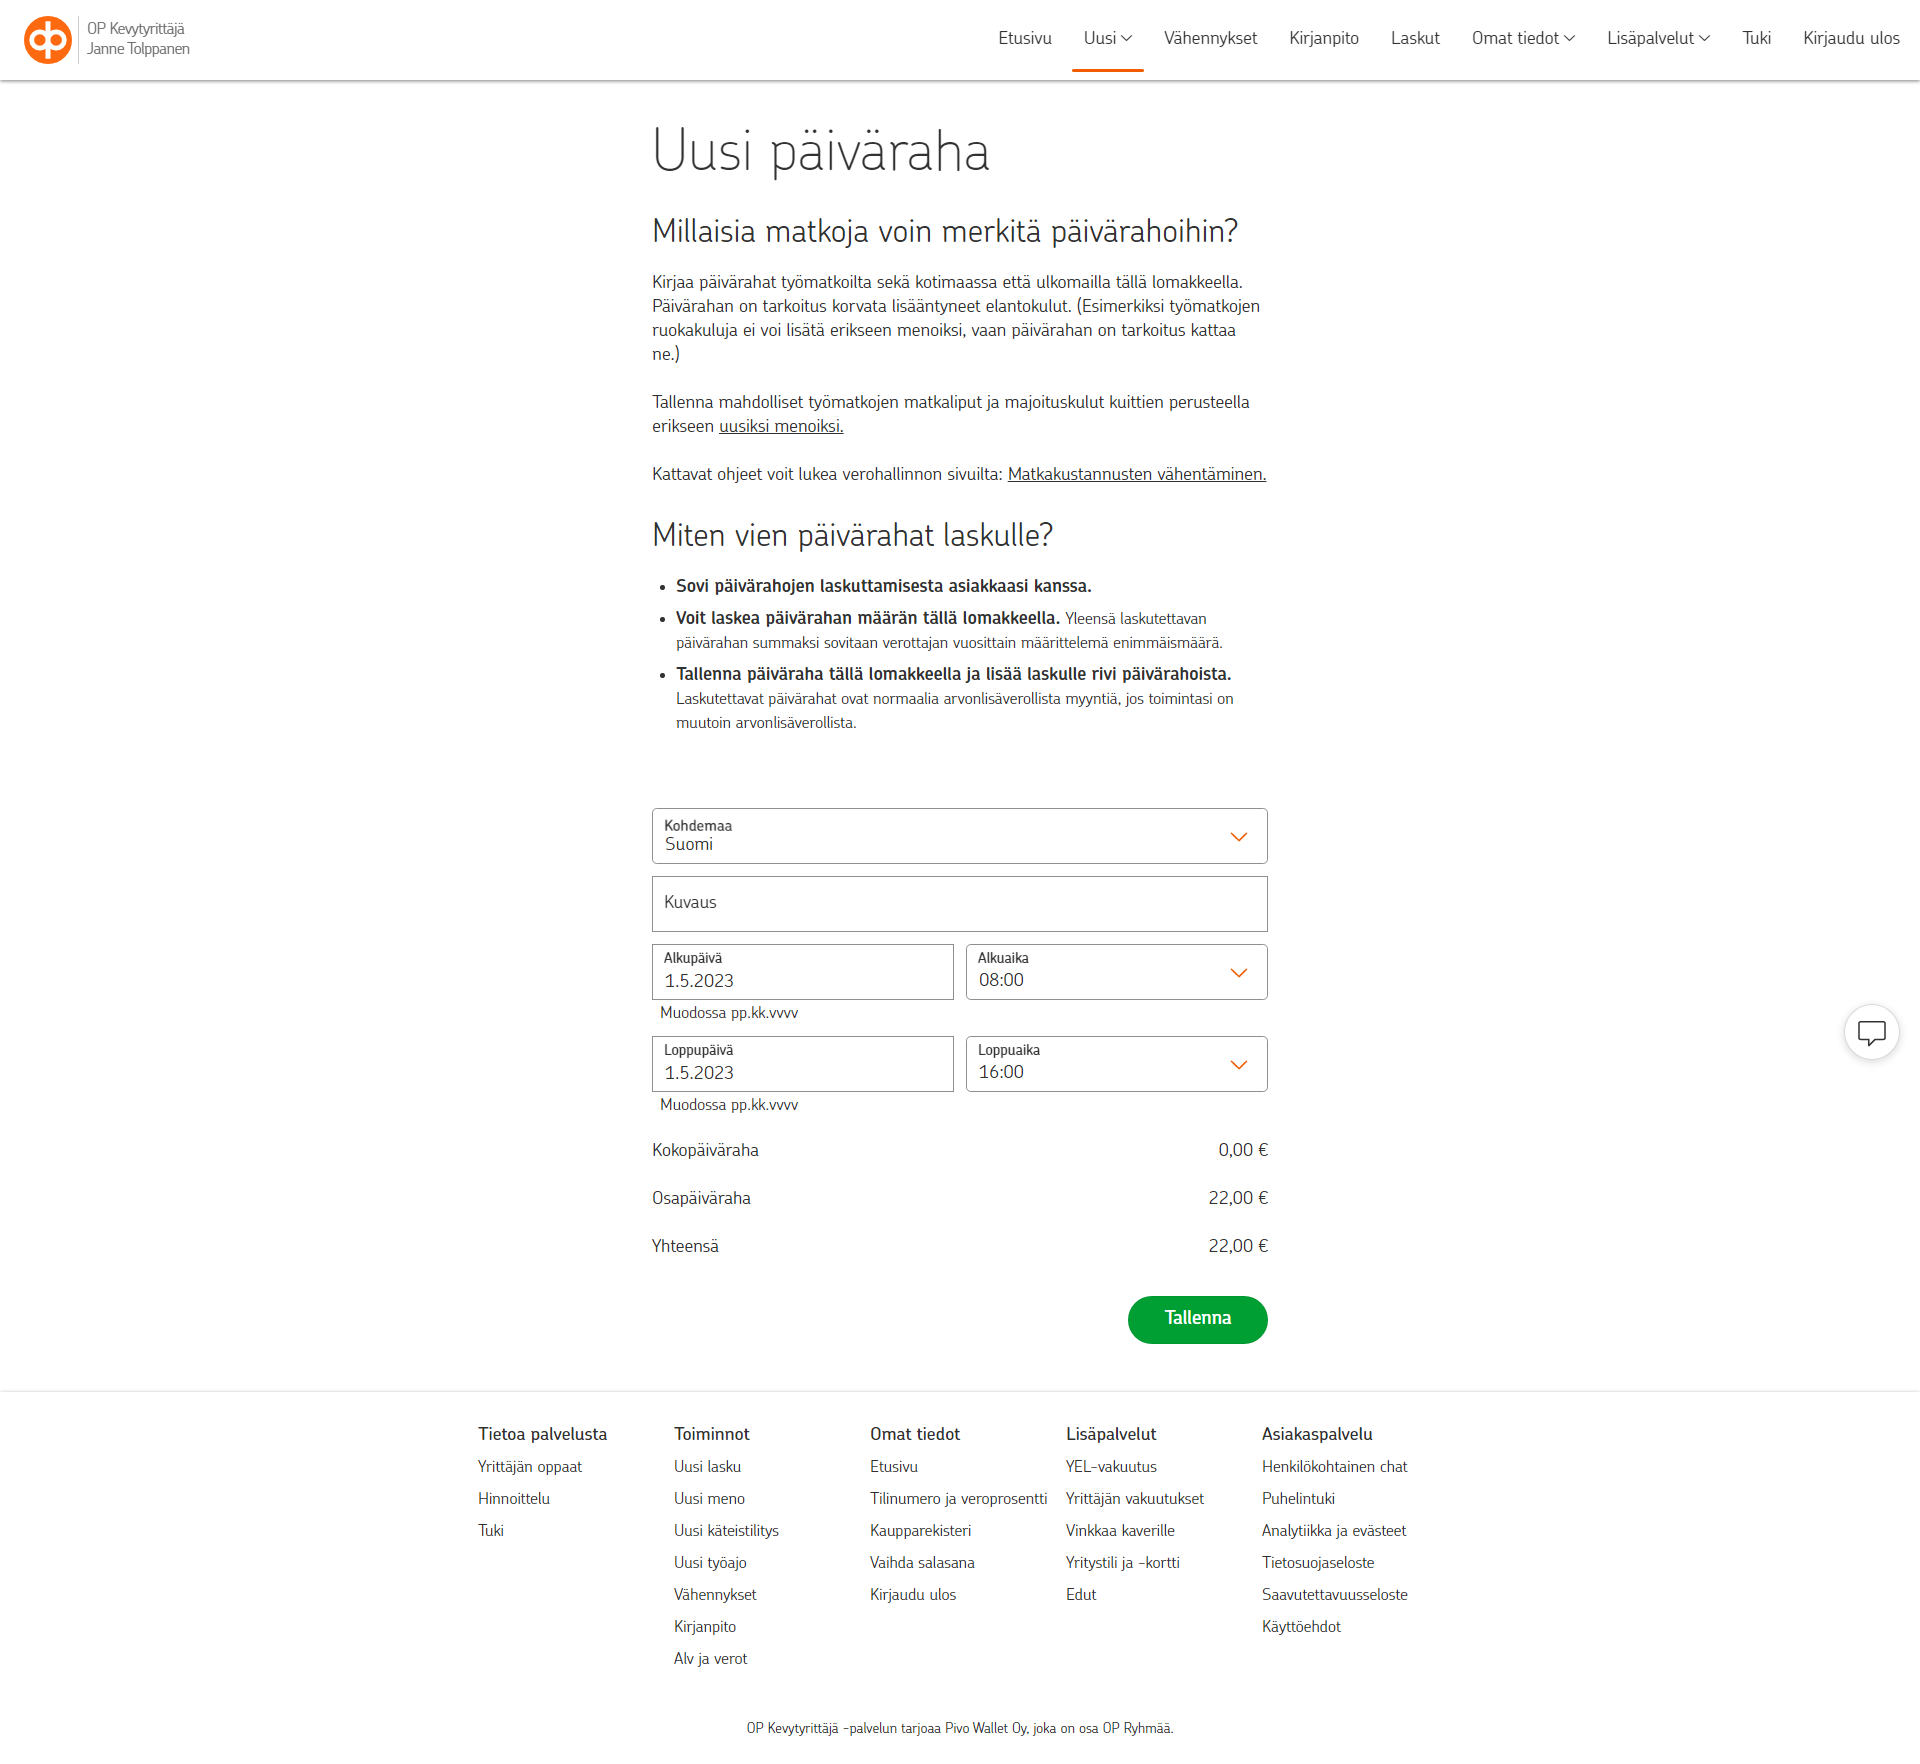
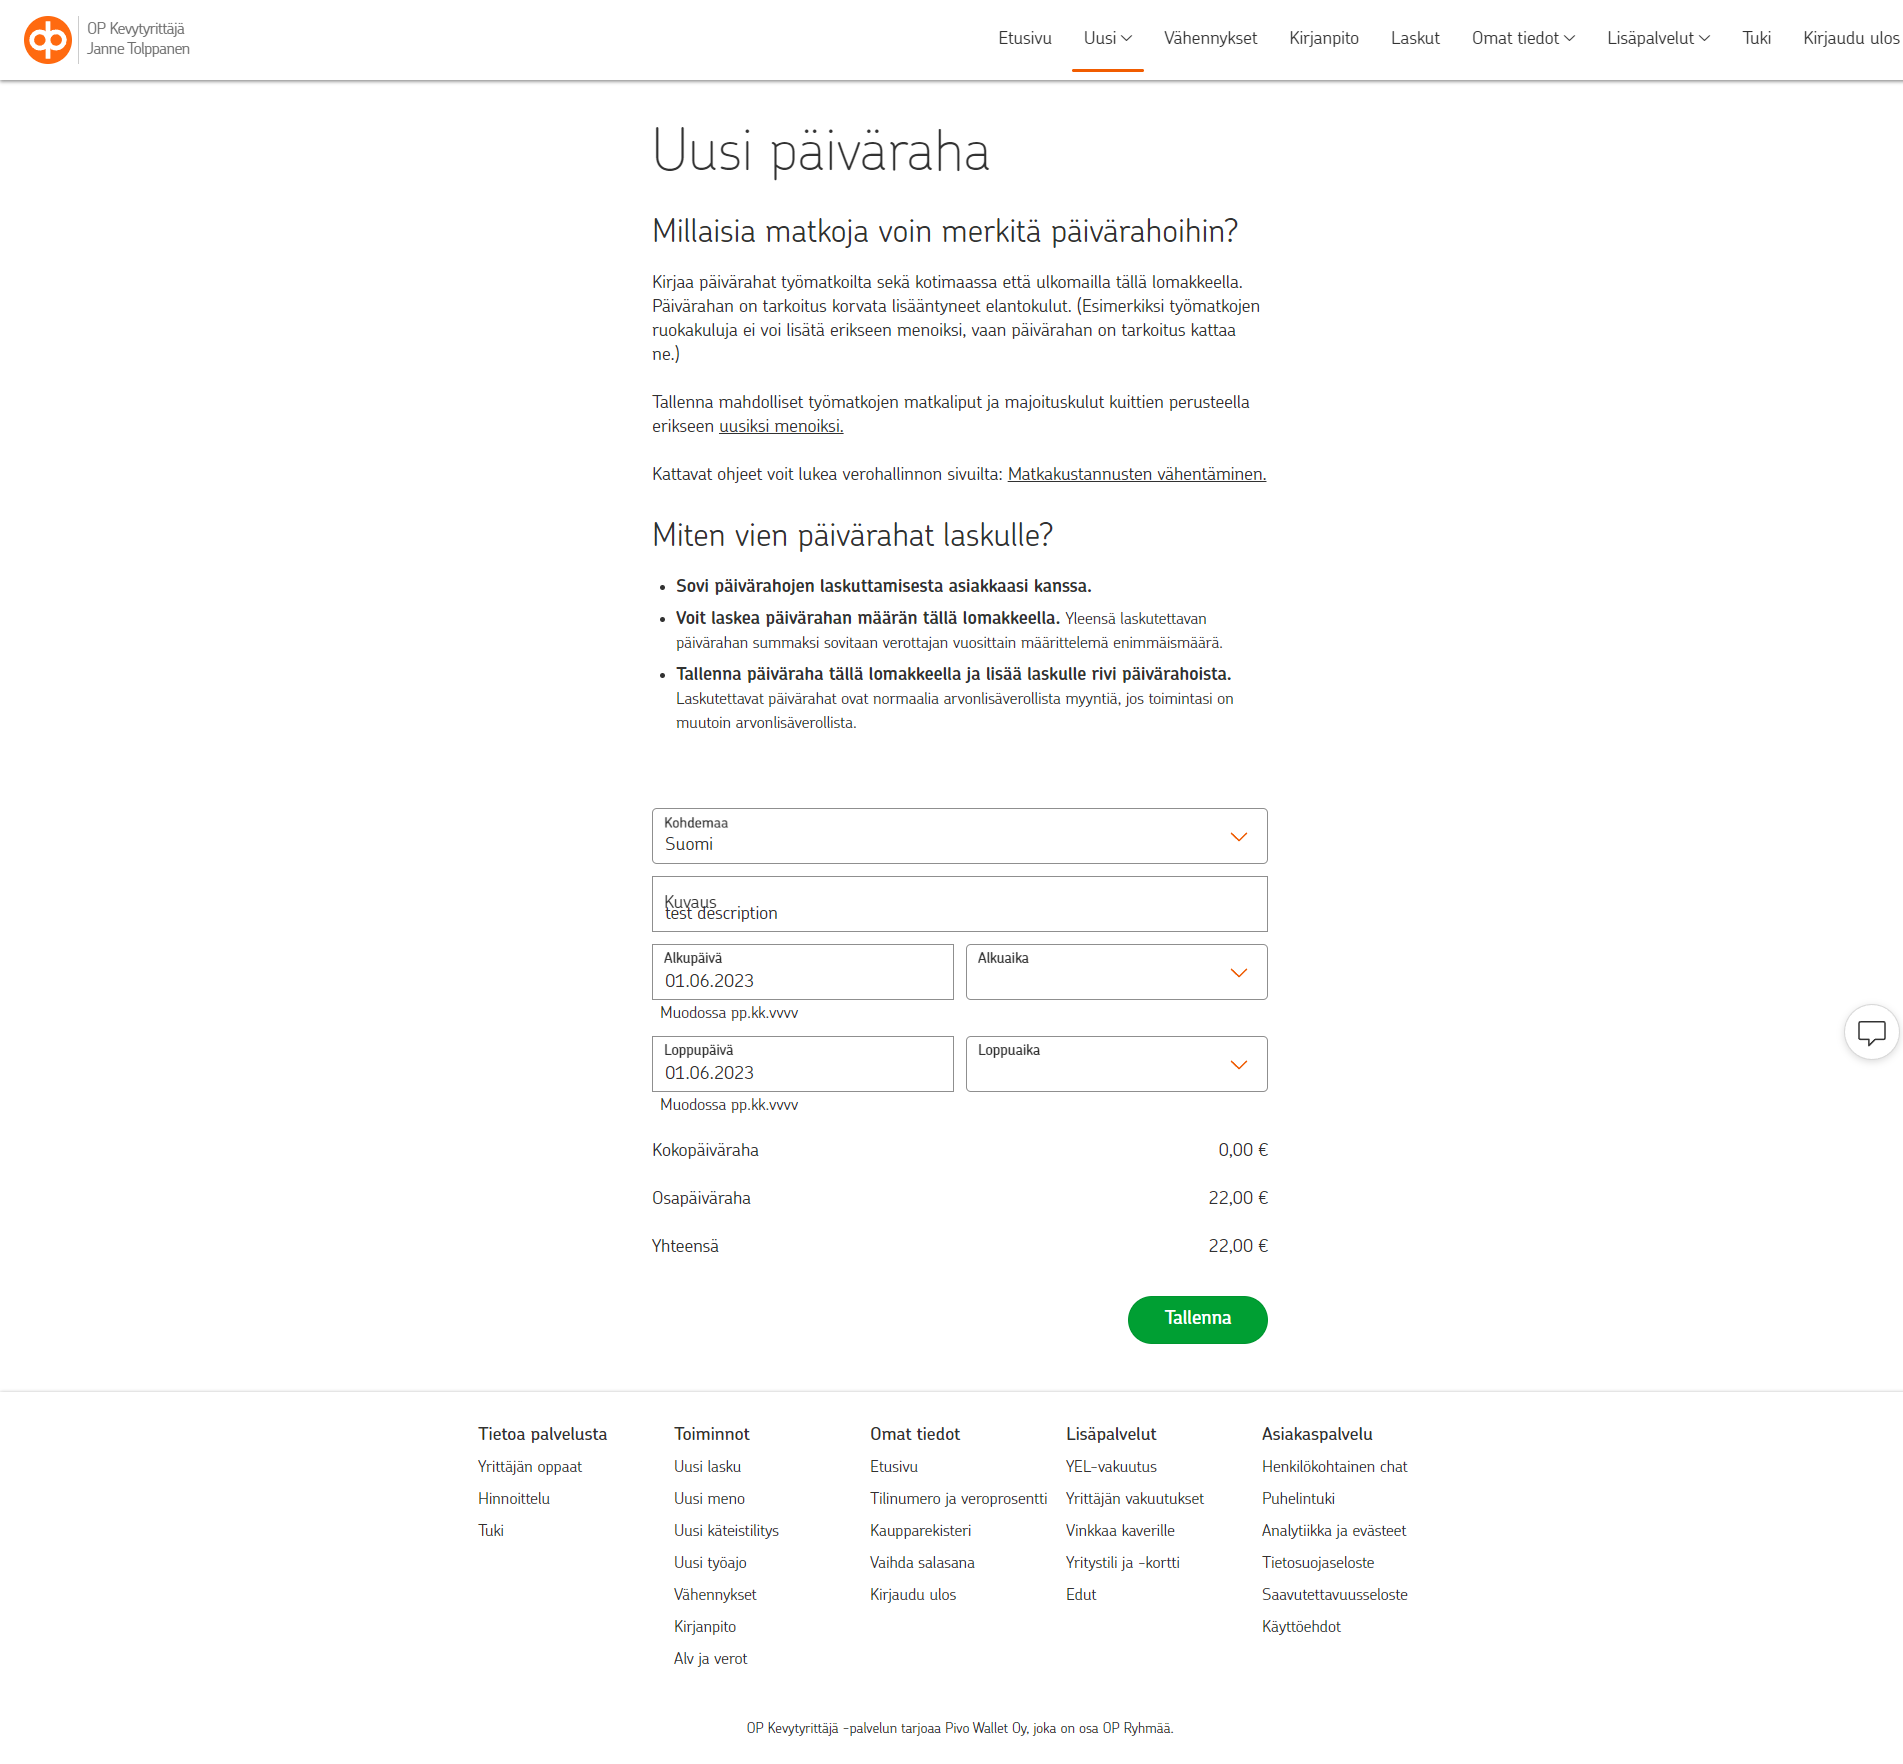
Submitting data works. Need to fix times when its not an even hour

diff --git a/automate-form.js b/automate-form.js
@@ -1,13 +1,18 @@
 const puppeteer = require('puppeteer');
 require('dotenv').config();
 
-
-
+const form_description = "test description"
+const form_date = '01.06.2023'
+const form_startTime = '08'
+const form_endTime = '16';
 
 (async () => {
     // Launch a new browser instance
     console.log('Launching browser...')
-    const browser = await puppeteer.launch();
+    const browser = await puppeteer.launch({
+        headless: false,
+        slowMo: 35
+    });
 
     // Create a new page
     const page = await browser.newPage();
@@ -18,7 +23,7 @@ require('dotenv').config();
     // Navigate to the login page
     console.log('Navigating to site')
     await page.goto('https://app.op-kevytyrittaja.fi/vahennykset/paivarahat/uusi');
-    
+
 
     // Check if we are in the login page
     console.log('Checking if we got into the login page...')
@@ -35,25 +40,34 @@ require('dotenv').config();
     await Promise.all([
         page.click('#sign_in_form > button'),
         page.waitForNavigation()
-        
+
     ]);
     console.log('Signed in')
-    await page.screenshot({ path: 'screenshot.png', fullPage: true });
 
-    // Navigate to the form page
-    await page.goto('https://example.com/form');
+
+    console.log('Inputting data...')
+
+    // Clear the form fields before typing into them
+    await page.$eval('#daily_allowance_row_description', field => field.value = '');
+    await page.$eval('#daily_allowance_row_trip_start_date', field => field.value = '');
+    await page.$eval('#daily_allowance_row_trip_end_date', field => field.value = '');
+    await page.$eval('#daily_allowance_row_trip_start_time', field => field.value = '');
+    await page.$eval('#daily_allowance_row_trip_end_time', field => field.value = '');
 
     // Fill out the form
-    await page.type('#name', 'Your Name');
-    await page.type('#email', 'youremail@example.com');
-    await page.type('#message', 'Hello, world!');
+    await page.type('#daily_allowance_row_description', form_description);
+    await page.type('#daily_allowance_row_trip_start_date', form_date);
+    await page.type('#daily_allowance_row_trip_end_date', form_date);
+    await page.type('#daily_allowance_row_trip_start_time', form_startTime);
+    await page.type('#daily_allowance_row_trip_end_time', form_endTime);
 
     // Submit the form
     await Promise.all([
-        page.click('#submit-button'),
+        page.click('#daily_allowance_form > div.flexrow.justify--end > button'),
         page.waitForNavigation()
     ]);
+    console.log('Submitted data')
 
     // Close the browser
-    await browser.close();
+    // await browser.close();
 })();
